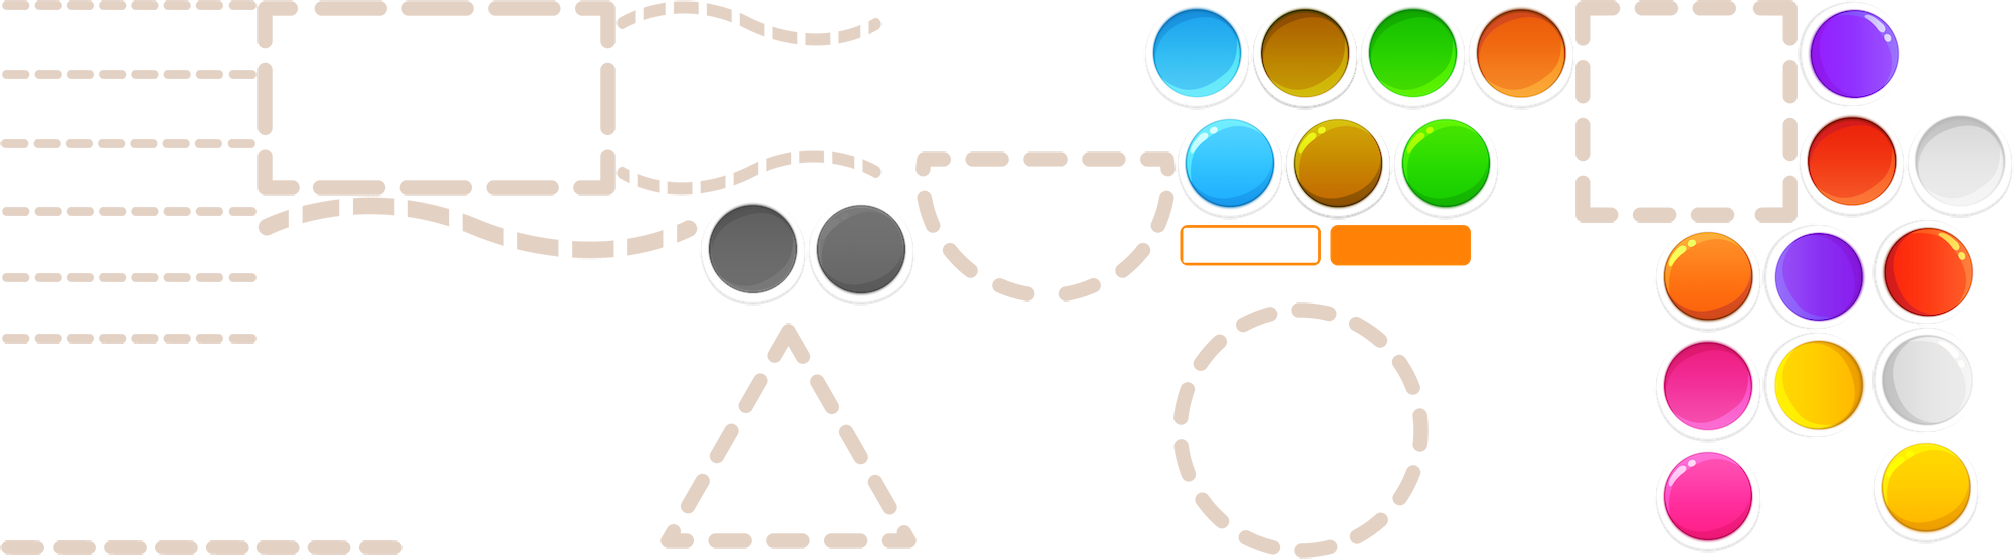
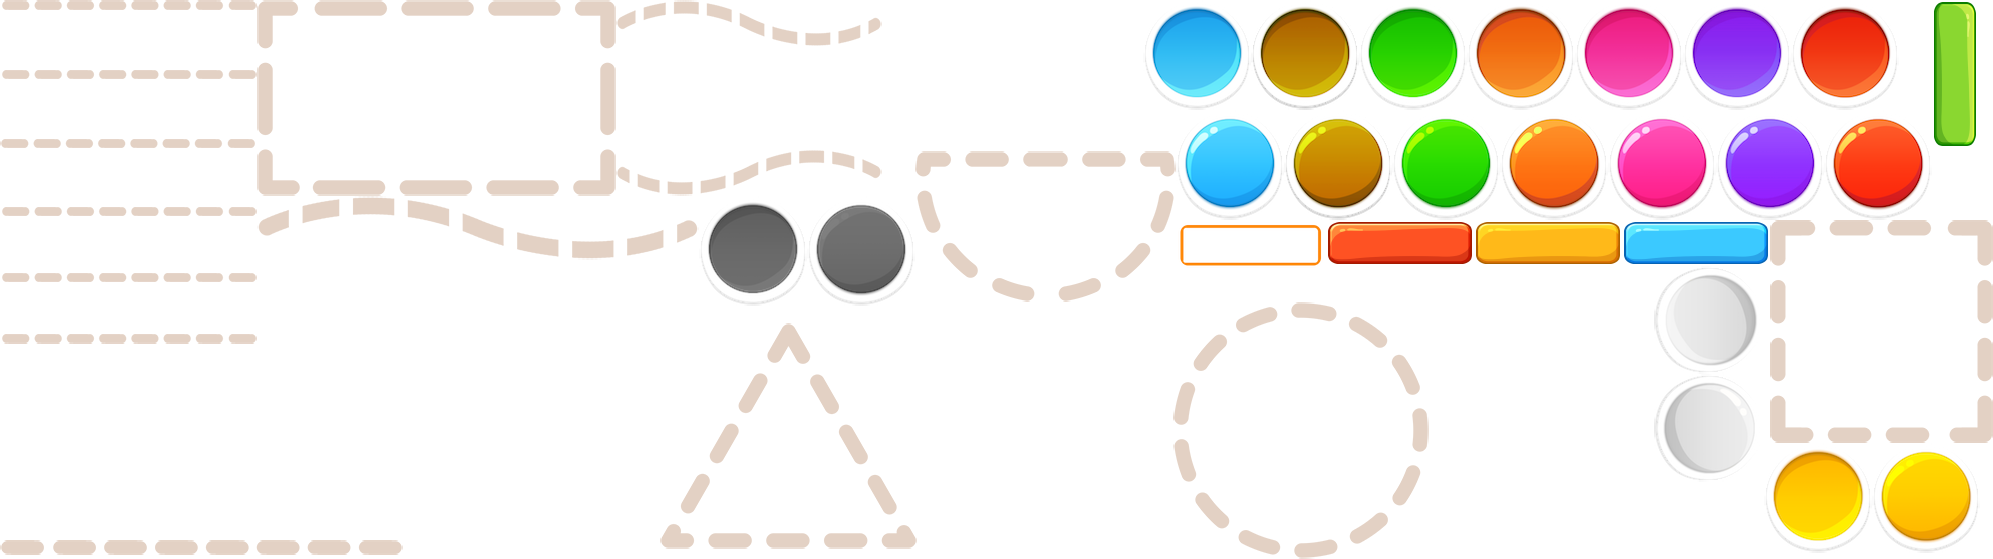
colorful building blocks

diff --git a/src/layers/Alphabet/BuildingBlocksLayer.js b/src/layers/Alphabet/BuildingBlocksLayer.js
@@ -136,7 +136,7 @@ var BuildingBlocksLayer = TestLayer.extend({
         for (var i = 0; i < thirdObjectCounts; i++) {
             if (i > 4)
                 break;
-            var o = new cc.Sprite("#" + this._type + "-empty" + ".png");
+            var o = new cc.Sprite("#" + this._type + (Math.floor(Math.random() * 4) + 1) + ".png");
             o.scale = this._gameScale;
             o.x = 0;
             o.y = -(o.height - 10) * i * o.scale;
@@ -144,7 +144,7 @@ var BuildingBlocksLayer = TestLayer.extend({
                 
             totalHeight = o.y;
         }
-        var lb = new cc.LabelBMFont(thirdObjectCounts, res.CustomFont_fnt);
+        var lb = new cc.LabelBMFont(thirdObjectCounts, res.HomeFont_fnt);
         lb.scale = (thirdObjectCounts == 1) ? 0.4 : 1;
         lb.y = totalHeight/2 + 10;
         this._objects[2].addChild(lb, 9);
@@ -201,7 +201,7 @@ var BuildingBlocksLayer = TestLayer.extend({
         for (var k = 0; k < count; k++) {
             if (k > 4)
                 break;
-            var o = new cc.Sprite("#" + this._type + "-empty" + ".png");
+            var o = new cc.Sprite("#" + this._type + (Math.floor(Math.random() * 4) + 1) + ".png");
             o.scale = this._gameScale;
             o.y = (o.height - 10) * (count-k) * o.scale;
             o.setUserData(k);
@@ -211,7 +211,7 @@ var BuildingBlocksLayer = TestLayer.extend({
      
             totalHeight = o.height * o.scale * count;
         }
-        var lb = new cc.LabelBMFont(count, res.CustomFont_fnt);
+        var lb = new cc.LabelBMFont(count, res.HomeFont_fnt);
         lb.scale = (count == 1) ? 0.3 : 1;
         lb.y = totalHeight/2 + 25 * this._gameScale;
         draggingNode.addChild(lb, 9);
